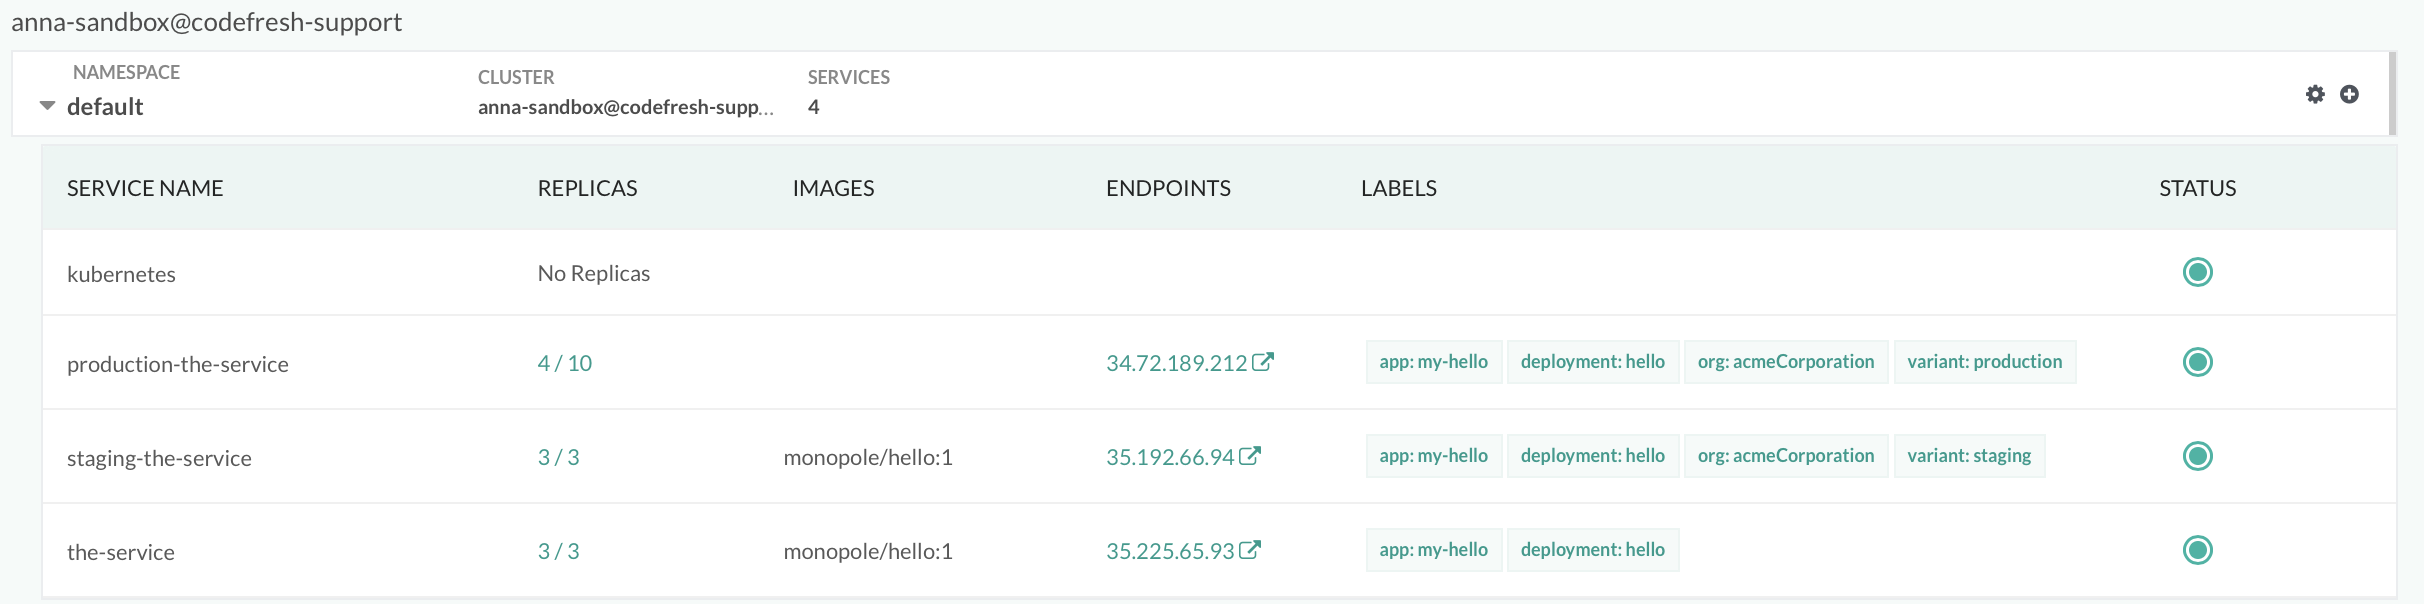
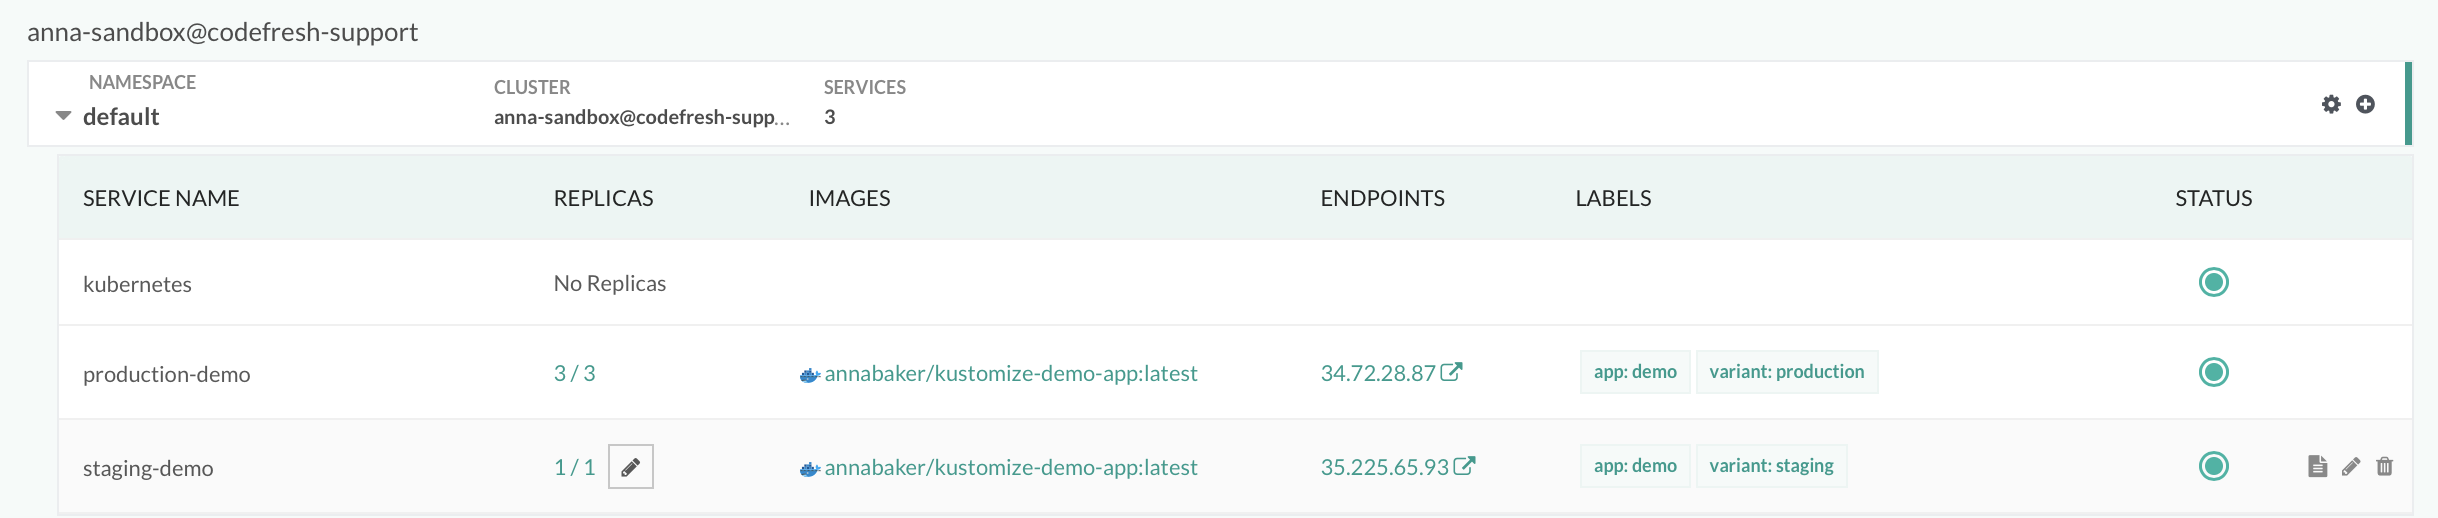
Modifications

diff --git a/_docs/yaml-examples/examples/deploy-with-kustomize.md b/_docs/yaml-examples/examples/deploy-with-kustomize.md
@@ -8,35 +8,89 @@ toc: true
 
 [Kustomize](https://kustomize.io) is a tool included with kubectl 1.14 that "lets you customize raw, template-free YAML files for multiple purposes, leaving the original YAML untouched and usable as is."
 
-It is important to note that Kustomize differs from Helm, in that it is not a templating engine, but an overlay engine.  With Helm, you create a template file and the templating engine replaces all placeholders within that template with their actual values.  
+Kustomize is more of an overlay engine, as opposed to a templating engine.  You create a base configuration and overlays.  Your overlays contain a *kustomization.yaml* file, and any variants/changes are applied over top of the base configuration.  Kustomize does not use templates at all.  
 
-Kustomize takes a different approach, so it is hard to compare the two.  Kustomize is more of an overlay engine, as opposed to a templating engine.  You create a base configuration and overlays.  Your overlays contain a *kustomization.yaml* file, and any variants/changes are applied over top of the base configuration.  Kustomize does not use templates at all.  If you wish to use a templating mechanism, the recommended course of action is still to use Helm.
+While it is good for simple scenarios, we suggest that you use Helm for managing your Kubernetes applications.  Helm is a full package manager for Kubernetes manifests that also provides templating capabilities.  See [this example]({{site.baseurl}}/docs/yaml-examples/examples/helm/) for more information.
 
 ## The Example Application
 
-You can find the example project on [Github](https://github.com/codefresh-contrib/kustomize-sample-apps/tree/master/examples/helloWorld).
+You can find the example project on [Github](https://github.com/codefresh-contrib/kustomize-sample-app).
 
-The repository contains a [base](https://github.com/codefresh-contrib/kustomize-sample-apps/blob/master/docs/glossary.md#base) and two [overlays](https://github.com/codefresh-contrib/kustomize-sample-apps/blob/master/docs/glossary.md#overlay), one for a staging environment and one for production.
+The sample application is a simple Spring Boot web app, that displays an environment variable, `MY_MYSQL_DB` on the page:
 
-The base service will display a ["Good Morning!"](https://github.com/codefresh-contrib/kustomize-sample-apps/blob/6dd378db22b0e8e671159fafbe8c12145512acf8/examples/helloWorld/base/configMap.yaml#L6) message.  We will overlay on top of the manifests a different greeting for the staging environment, ["Have a pineapple!"](https://github.com/codefresh-contrib/kustomize-sample-apps/blob/6dd378db22b0e8e671159fafbe8c12145512acf8/examples/helloWorld/overlays/staging/map.yaml#L6)
+```java
+public class HelloController {
 
-In addition, the staging environment will [enable a risky feature](https://github.com/codefresh-contrib/kustomize-sample-apps/blob/6dd378db22b0e8e671159fafbe8c12145512acf8/examples/helloWorld/overlays/staging/map.yaml#L7) that is not enabled in production.
+	String my_sql_db = System.getenv("MY_MYSQL_DB");
 
-Finally, the number of replicas in the production environment will be [scaled up to 10](https://github.com/codefresh-contrib/kustomize-sample-apps/blob/6dd378db22b0e8e671159fafbe8c12145512acf8/examples/helloWorld/overlays/production/deployment.yaml#L6). 
+	@RequestMapping("/")
+	public String index() {
+		return my_sql_db;
+	}
+```
+
+The project contains a [base](https://github.com/codefresh-contrib/kustomize-sample-apps/blob/master/docs/glossary.md#base) and two [overlays](https://github.com/codefresh-contrib/kustomize-sample-apps/blob/master/docs/glossary.md#overlay), one for a staging environment and one for production.
+
+The base manifest holds a dummy variable for `MY_MYSQL_DB` which will be overlayed once we call the kustomize command in our pipeline.
+
+`base/deployment.yaml`
+```yaml
+...
+        env:
+        - name: MY_MYSQL_DB
+          valueFrom:
+            configMapKeyRef:
+              name: the-map
+              key: mysqlDB
+```
+
+We will overlay on top of the manifests a different value for `MY_MYSQL_DB` for the staging environment and production environment.  
+
+`overlays/staging/config-map.yaml`
+```yaml
+apiVersion: v1
+kind: ConfigMap
+metadata:
+  name: the-map
+data:
+  mysqlDB: "staging-mysql.example.com:3306"
+```
+
+`overlays/production/config-map.yaml`
+```yaml
+apiVersion: v1
+kind: ConfigMap
+metadata:
+  name: the-map
+data:
+  mysqlDB: "prod-mysql.example.com:3306"
+```
+
+In addition, for the production environment, the number of replicas will be overlayed to 3 instead of 1 (as [defined in the base deployment](https://github.com/codefresh-contrib/kustomize-sample-app/blob/32e683f82940de0bf2de2da40fa6b150e2b24b23/base/deployment.yaml#L8)).
+
+`overlays/production/deployment.yaml`
+```yaml
+apiVersion: apps/v1
+kind: Deployment
+metadata:
+  name: the-deployment
+spec:
+  replicas: 3
+```
 
 ## Prerequisites
 
 - A [free Codefresh account](https://codefresh.io/docs/docs/getting-started/create-a-codefresh-account/)
 - A Kubernetes cluster [connected to your Codefresh account]({{site.baeurl}}/docs/deploy-to-kubernetes/add-kubernetes-cluster/)
 
-### Create the Pipeline 
+## Create the Staging Environment Pipeline 
 
-This pipeline will have two stages: clone and kustomize.
+This pipeline will have two stages: clone and deploy.
 
 {% include image.html 
 lightbox="true" 
-file="/images/examples/deployments/k8s-kustomize-pipeline.png" 
-url="/images/examples/deployments/k8s-kustomize-pipeline.png" 
+file="/images/examples/deployments/k8s-kustomize-staging-pipeline.png" 
+url="/images/examples/deployments/k8s-kustomize-staging-pipeline.png" 
 alt="Codefresh UI Pipeline View"
 caption="Codefresh UI Pipeline View"
 max-width="100%" 
@@ -44,7 +98,7 @@ max-width="100%"
 
 You should be able to copy and paste this YAML in the in-line editor of the Codefresh UI.  It will automatically clone the project for you.
 
-`codefresh.yml`
+`staging-codefresh.yml`
 {% highlight yaml %}
 {% raw %}
 # More examples of Codefresh YAML can be found at
@@ -55,7 +109,7 @@ version: "1.0"
 
 stages:
   - clone
-  - kustomize
+  - deploy
 
 steps:
   clone:
@@ -63,22 +117,80 @@ steps:
     type: git-clone
     stage: clone
     arguments:
-      repo: codefresh-contrib/kustomize-sample-apps
+      repo: https://github.com/codefresh-contrib/kustomize-sample-app.git
       git: github
       revision: master
 
-  kustomize:
-    title: Kustomize
+  deploy:
+    title: Deploying to Staging using Kustomize...
     type: freestyle
-    stage: kustomize
-    working_directory: ${{clone}}/examples/helloWorld
+    stage: deploy
+    working_directory: ${{clone}}
     arguments:
       image: codefresh/kubectl:1.14.9
       commands:
         - kubectl config use-context anna-sandbox@codefresh-support
-        - 'sed -i.bak ''s/app: hello/app: my-hello/'' base/kustomization.yaml'
-        - kubectl apply -k base
         - kubectl apply -k overlays/staging
+{% endraw %}
+{% endhighlight %}
+
+The above pipeline does the following:
+
+1. A [git-clone]({{site.baseurl}}/docs/codefresh-yaml/steps/git-clone/) step that clones the main repository
+2. A [freestyle step]({{site.baseurl}}/docs/codefresh-yaml/steps/freestyle/) that:
+  - Uses kubectl to connect to our Kubernetes cluster we have integrated with Codefresh
+  - Using Kustomize (the -k flag), deploys the application as a staging environment with the appropriate value for `MY_MYSQL_DB` as defined in our configMap
+
+>Note that if you are using kubectl prior to 1.14, you can use the following command to deploy with Kustomize: 
+>`kustomize build overlays/production | kubectl apply -f`
+
+## Create the Production Environment Pipeline 
+
+Likewise, this pipeline will have two stages: clone and deploy.
+
+{% include image.html 
+lightbox="true" 
+file="/images/examples/deployments/k8s-kustomize-prod-pipeline.png" 
+url="/images/examples/deployments/k8s-kustomize-prod-pipeline.png" 
+alt="Codefresh UI Pipeline View"
+caption="Codefresh UI Pipeline View"
+max-width="100%" 
+%}
+
+You should be able to copy and paste this YAML in the in-line editor of the Codefresh UI.  It will automatically clone the project for you.
+
+`prod-codefresh.yml`
+{% highlight yaml %}
+{% raw %}
+# More examples of Codefresh YAML can be found at
+# https://codefresh.io/docs/docs/yaml-examples/examples/
+
+version: "1.0"
+# Stages can help you organize your steps in stages
+
+stages:
+  - clone
+  - deploy
+
+steps:
+  clone:
+    title: Cloning main repository...
+    type: git-clone
+    stage: clone
+    arguments:
+      repo: https://github.com/codefresh-contrib/kustomize-sample-app.git
+      git: github
+      revision: master
+
+  deploy:
+    title: Deploying to Production using Kustomize...
+    type: freestyle
+    stage: deploy
+    working_directory: ${{clone}}
+    arguments:
+      image: codefresh/kubectl:1.14.9
+      commands:
+        - kubectl config use-context anna-sandbox@codefresh-support
         - kubectl apply -k overlays/production
 {% endraw %}
 {% endhighlight %}
@@ -88,10 +200,14 @@ The above pipeline does the following:
 1. A [git-clone]({{site.baseurl}}/docs/codefresh-yaml/steps/git-clone/) step that clones the main repository
 2. A [freestyle step]({{site.baseurl}}/docs/codefresh-yaml/steps/freestyle/) that:
   - Uses kubectl to connect to our Kubernetes cluster we have integrated with Codefresh
-  - Modifies the app label to my-hello in our base kustomization file
-  - Deploys all 3 services to our Kubernetes cluster using kustomize (the -k flag)
-  
-After you run this pipeline, your deployments will be visible from the [Kuebrnetes dashboard]({{site.baseurl}}/docs/deploy-to-kubernetes/manage-kubernetes/#accessing-the-kubernetes-dashboard).
+  - Using Kustomize (the -k flag), deploys the application as a production environment with the appropriate value for `MY_MYSQL_DB` as defined in our configMap
+
+>Note that if you are using kubectl prior to 1.14, you can use the following command to deploy with Kustomize: 
+>`kustomize build overlays/production | kubectl apply -f`
+
+## Verification
+
+After you run these pipelines, your deployments will be visible from the [Kuebrnetes dashboard]({{site.baseurl}}/docs/deploy-to-kubernetes/manage-kubernetes/#accessing-the-kubernetes-dashboard).
 
 {% include image.html 
 lightbox="true" 
@@ -101,6 +217,27 @@ alt="Codefresh Kubernetes Deployments"
 caption="Codefresh Kubernetes Deployments"
 max-width="100%" 
 %}
+
+You can test that the application deployed correctly to both environments by accessing the endpoints:
+
+{% include image.html 
+lightbox="true" 
+file="/images/examples/deployments/k8s-kustomize-staging-endpoint.png" 
+url="/images/examples/deployments/k8s-kustomize-staging-endpoint.png" 
+alt="Staging endpoint"
+caption="Staging endpoint"
+max-width="100%" 
+%}
+
+{% include image.html 
+lightbox="true" 
+file="/images/examples/deployments/k8s-kustomize-prod-endpoint.png" 
+url="/images/examples/deployments/k8s-kustomize-prod-endpoint.png" 
+alt="Production endpoint"
+caption="Production endpoint"
+max-width="100%" 
+%}
+
 
 ## What to Read Next
 
